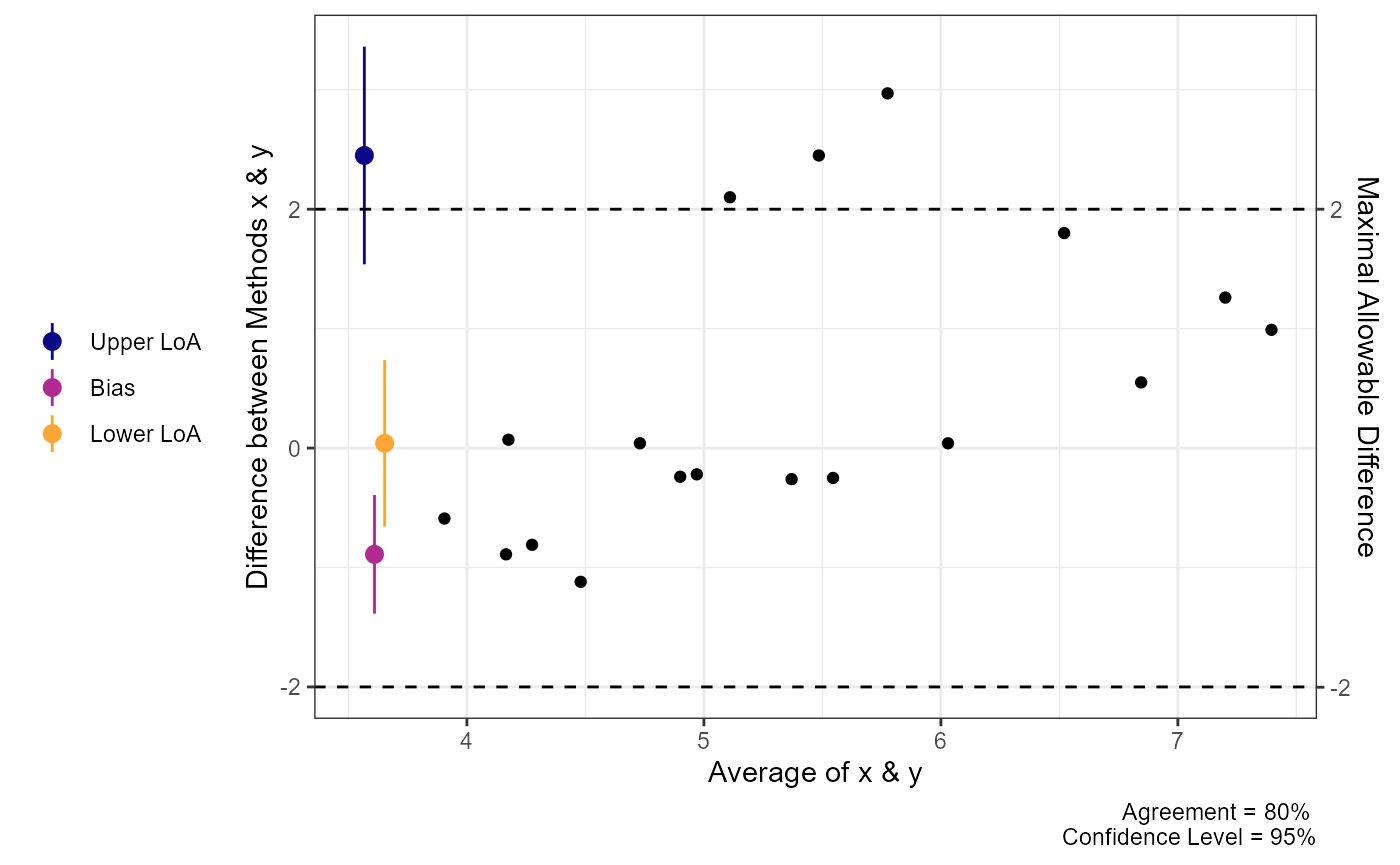
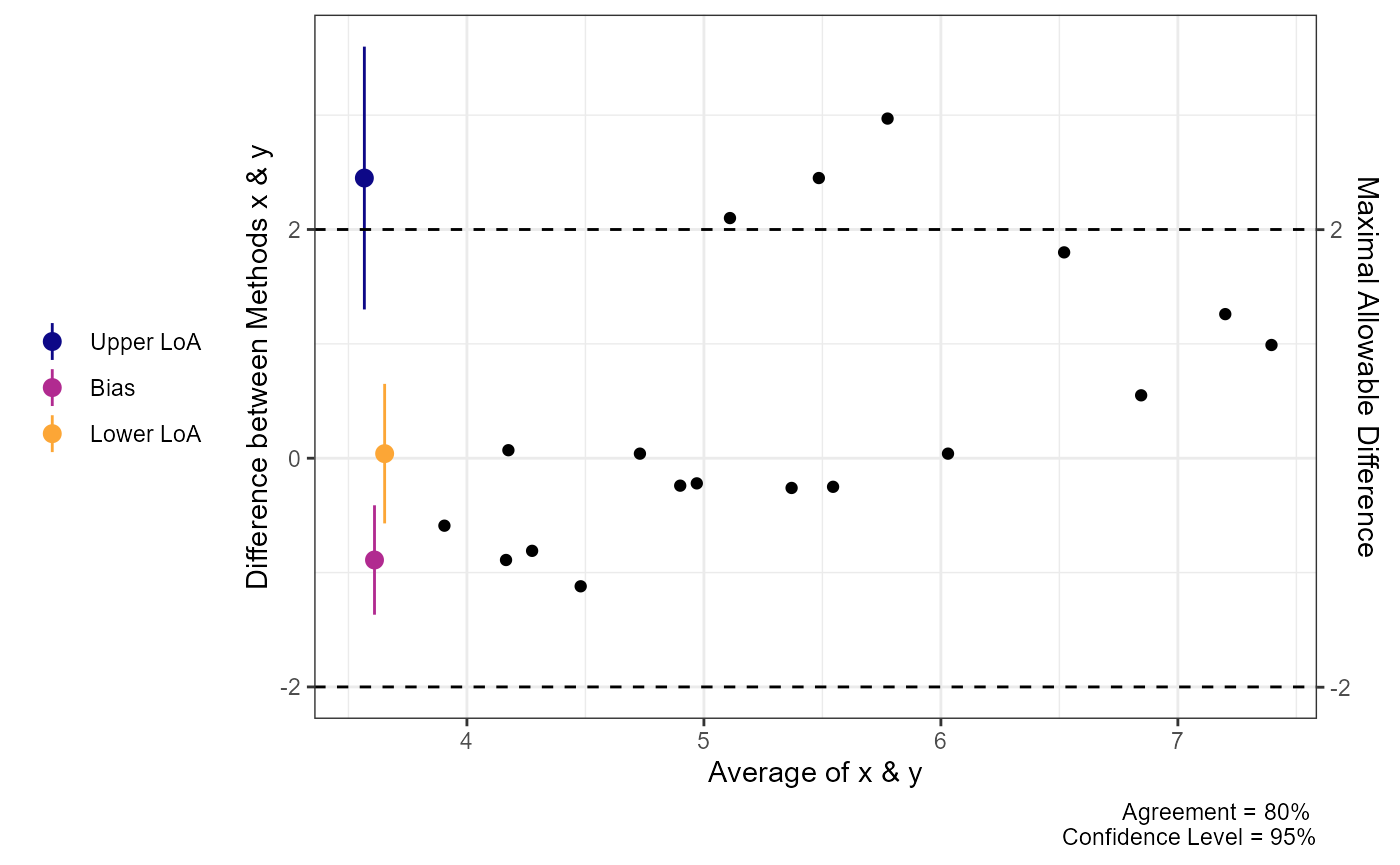
Update documentation.

diff --git a/docs/reference/dem_reg.html b/docs/reference/dem_reg.html
@@ -1,8 +1,5 @@
 <!DOCTYPE html>
-<!-- Generated by pkgdown: do not edit by hand --><html lang="en"><head><meta http-equiv="Content-Type" content="text/html; charset=UTF-8"><meta charset="utf-8"><meta http-equiv="X-UA-Compatible" content="IE=edge"><meta name="viewport" content="width=device-width, initial-scale=1.0"><title>Deming Regression
-A function for fitting a straight line to two-dimensional data (i.e., X and Y) are measured with error. — dem_reg • SimplyAgree</title><!-- jquery --><script src="https://cdnjs.cloudflare.com/ajax/libs/jquery/3.4.1/jquery.min.js" integrity="sha256-CSXorXvZcTkaix6Yvo6HppcZGetbYMGWSFlBw8HfCJo=" crossorigin="anonymous"></script><!-- Bootstrap --><link rel="stylesheet" href="https://cdnjs.cloudflare.com/ajax/libs/twitter-bootstrap/3.4.1/css/bootstrap.min.css" integrity="sha256-bZLfwXAP04zRMK2BjiO8iu9pf4FbLqX6zitd+tIvLhE=" crossorigin="anonymous"><script src="https://cdnjs.cloudflare.com/ajax/libs/twitter-bootstrap/3.4.1/js/bootstrap.min.js" integrity="sha256-nuL8/2cJ5NDSSwnKD8VqreErSWHtnEP9E7AySL+1ev4=" crossorigin="anonymous"></script><!-- bootstrap-toc --><link rel="stylesheet" href="../bootstrap-toc.css"><script src="../bootstrap-toc.js"></script><!-- Font Awesome icons --><link rel="stylesheet" href="https://cdnjs.cloudflare.com/ajax/libs/font-awesome/5.12.1/css/all.min.css" integrity="sha256-mmgLkCYLUQbXn0B1SRqzHar6dCnv9oZFPEC1g1cwlkk=" crossorigin="anonymous"><link rel="stylesheet" href="https://cdnjs.cloudflare.com/ajax/libs/font-awesome/5.12.1/css/v4-shims.min.css" integrity="sha256-wZjR52fzng1pJHwx4aV2AO3yyTOXrcDW7jBpJtTwVxw=" crossorigin="anonymous"><!-- clipboard.js --><script src="https://cdnjs.cloudflare.com/ajax/libs/clipboard.js/2.0.6/clipboard.min.js" integrity="sha256-inc5kl9MA1hkeYUt+EC3BhlIgyp/2jDIyBLS6k3UxPI=" crossorigin="anonymous"></script><!-- headroom.js --><script src="https://cdnjs.cloudflare.com/ajax/libs/headroom/0.11.0/headroom.min.js" integrity="sha256-AsUX4SJE1+yuDu5+mAVzJbuYNPHj/WroHuZ8Ir/CkE0=" crossorigin="anonymous"></script><script src="https://cdnjs.cloudflare.com/ajax/libs/headroom/0.11.0/jQuery.headroom.min.js" integrity="sha256-ZX/yNShbjqsohH1k95liqY9Gd8uOiE1S4vZc+9KQ1K4=" crossorigin="anonymous"></script><!-- pkgdown --><link href="../pkgdown.css" rel="stylesheet"><script src="../pkgdown.js"></script><meta property="og:title" content="Deming Regression
-A function for fitting a straight line to two-dimensional data (i.e., X and Y) are measured with error. — dem_reg"><meta property="og:description" content="Deming Regression
-A function for fitting a straight line to two-dimensional data (i.e., X and Y) are measured with error."><!-- mathjax --><script src="https://cdnjs.cloudflare.com/ajax/libs/mathjax/2.7.5/MathJax.js" integrity="sha256-nvJJv9wWKEm88qvoQl9ekL2J+k/RWIsaSScxxlsrv8k=" crossorigin="anonymous"></script><script src="https://cdnjs.cloudflare.com/ajax/libs/mathjax/2.7.5/config/TeX-AMS-MML_HTMLorMML.js" integrity="sha256-84DKXVJXs0/F8OTMzX4UR909+jtl4G7SPypPavF+GfA=" crossorigin="anonymous"></script><!--[if lt IE 9]>
+<!-- Generated by pkgdown: do not edit by hand --><html lang="en"><head><meta http-equiv="Content-Type" content="text/html; charset=UTF-8"><meta charset="utf-8"><meta http-equiv="X-UA-Compatible" content="IE=edge"><meta name="viewport" content="width=device-width, initial-scale=1.0"><title>Deming Regression — dem_reg • SimplyAgree</title><!-- jquery --><script src="https://cdnjs.cloudflare.com/ajax/libs/jquery/3.4.1/jquery.min.js" integrity="sha256-CSXorXvZcTkaix6Yvo6HppcZGetbYMGWSFlBw8HfCJo=" crossorigin="anonymous"></script><!-- Bootstrap --><link rel="stylesheet" href="https://cdnjs.cloudflare.com/ajax/libs/twitter-bootstrap/3.4.1/css/bootstrap.min.css" integrity="sha256-bZLfwXAP04zRMK2BjiO8iu9pf4FbLqX6zitd+tIvLhE=" crossorigin="anonymous"><script src="https://cdnjs.cloudflare.com/ajax/libs/twitter-bootstrap/3.4.1/js/bootstrap.min.js" integrity="sha256-nuL8/2cJ5NDSSwnKD8VqreErSWHtnEP9E7AySL+1ev4=" crossorigin="anonymous"></script><!-- bootstrap-toc --><link rel="stylesheet" href="../bootstrap-toc.css"><script src="../bootstrap-toc.js"></script><!-- Font Awesome icons --><link rel="stylesheet" href="https://cdnjs.cloudflare.com/ajax/libs/font-awesome/5.12.1/css/all.min.css" integrity="sha256-mmgLkCYLUQbXn0B1SRqzHar6dCnv9oZFPEC1g1cwlkk=" crossorigin="anonymous"><link rel="stylesheet" href="https://cdnjs.cloudflare.com/ajax/libs/font-awesome/5.12.1/css/v4-shims.min.css" integrity="sha256-wZjR52fzng1pJHwx4aV2AO3yyTOXrcDW7jBpJtTwVxw=" crossorigin="anonymous"><!-- clipboard.js --><script src="https://cdnjs.cloudflare.com/ajax/libs/clipboard.js/2.0.6/clipboard.min.js" integrity="sha256-inc5kl9MA1hkeYUt+EC3BhlIgyp/2jDIyBLS6k3UxPI=" crossorigin="anonymous"></script><!-- headroom.js --><script src="https://cdnjs.cloudflare.com/ajax/libs/headroom/0.11.0/headroom.min.js" integrity="sha256-AsUX4SJE1+yuDu5+mAVzJbuYNPHj/WroHuZ8Ir/CkE0=" crossorigin="anonymous"></script><script src="https://cdnjs.cloudflare.com/ajax/libs/headroom/0.11.0/jQuery.headroom.min.js" integrity="sha256-ZX/yNShbjqsohH1k95liqY9Gd8uOiE1S4vZc+9KQ1K4=" crossorigin="anonymous"></script><!-- pkgdown --><link href="../pkgdown.css" rel="stylesheet"><script src="../pkgdown.js"></script><meta property="og:title" content="Deming Regression — dem_reg"><meta property="og:description" content="A function for fitting a straight line to two-dimensional data (i.e., X and Y) are measured with error."><!-- mathjax --><script src="https://cdnjs.cloudflare.com/ajax/libs/mathjax/2.7.5/MathJax.js" integrity="sha256-nvJJv9wWKEm88qvoQl9ekL2J+k/RWIsaSScxxlsrv8k=" crossorigin="anonymous"></script><script src="https://cdnjs.cloudflare.com/ajax/libs/mathjax/2.7.5/config/TeX-AMS-MML_HTMLorMML.js" integrity="sha256-84DKXVJXs0/F8OTMzX4UR909+jtl4G7SPypPavF+GfA=" crossorigin="anonymous"></script><!--[if lt IE 9]>
 <script src="https://oss.maxcdn.com/html5shiv/3.7.3/html5shiv.min.js"></script>
 <script src="https://oss.maxcdn.com/respond/1.4.2/respond.min.js"></script>
 <![endif]--></head><body data-spy="scroll" data-target="#toc">
@@ -59,15 +56,13 @@ A function for fitting a straight line to two-dimensional data (i.e., X and Y) a
       </header><div class="row">
   <div class="col-md-9 contents">
     <div class="page-header">
-    <h1>Deming Regression
-A function for fitting a straight line to two-dimensional data (i.e., X and Y) are measured with error.</h1>
+    <h1>Deming Regression</h1>
     
     <div class="hidden name"><code>dem_reg.Rd</code></div>
     </div>
 
     <div class="ref-description">
-    <p>Deming Regression
-A function for fitting a straight line to two-dimensional data (i.e., X and Y) are measured with error.</p>
+    <p>A function for fitting a straight line to two-dimensional data (i.e., X and Y) are measured with error.</p>
     </div>
 
     <div id="ref-usage">

diff --git a/docs/articles/agreement_analysis.html b/docs/articles/agreement_analysis.html
@@ -652,9 +652,9 @@ are no longer symmetric around the bias estimate.</p>
 <span class="co">#&gt; </span>
 <span class="co">#&gt; ###- Quantile Limits of Agreement (LoA) -###</span>
 <span class="co">#&gt;           Estimate Lower CI Upper CI CI Level</span>
-<span class="co">#&gt; Lower LoA    -0.89  -1.3867  -0.3933     0.90</span>
-<span class="co">#&gt; Bias          0.04  -0.6579   0.7379     0.95</span>
-<span class="co">#&gt; Upper LoA     2.45   1.5387   3.3613     0.90</span>
+<span class="co">#&gt; Lower LoA    -0.89  -1.3684  -0.4116     0.90</span>
+<span class="co">#&gt; Bias          0.04  -0.5701   0.6501     0.95</span>
+<span class="co">#&gt; Upper LoA     2.45   1.3009   3.5991     0.90</span>
 
 <span class="fu"><a href="https://rdrr.io/r/graphics/plot.default.html" class="external-link">plot</a></span><span class="op">(</span><span class="va">a1</span><span class="op">)</span></code></pre></div>
 <p><img src="agreement_analysis_files/figure-html/unnamed-chunk-13-1.png" width="700"></p>
@@ -678,15 +678,15 @@ agreement does not.</p>
 <span class="co">#&gt; </span>
 <span class="co">#&gt; ###- Quantile Limits of Agreement (LoA) -###</span>
 <span class="co">#&gt;                  Estimate Lower CI Upper CI CI Level</span>
-<span class="co">#&gt; Lower LoA @ 3.9  -1.28975  -1.7131 -0.86642     0.90</span>
-<span class="co">#&gt; Lower LoA @ 5.24 -0.45436  -0.6402 -0.26851     0.90</span>
-<span class="co">#&gt; Lower LoA @ 7.4   0.89417   0.5861  1.20225     0.90</span>
-<span class="co">#&gt; Bias @ 3.9       -0.73052  -1.3714 -0.08964     0.95</span>
-<span class="co">#&gt; Bias @ 5.24      -0.07238  -0.7248  0.57999     0.95</span>
-<span class="co">#&gt; Bias @ 7.4        0.99000  -0.5409  2.52089     0.95</span>
-<span class="co">#&gt; Upper LoA @ 3.9  -0.38310  -2.5678  1.80155     0.90</span>
-<span class="co">#&gt; Upper LoA @ 5.24  2.01069   0.8737  3.14771     0.90</span>
-<span class="co">#&gt; Upper LoA @ 7.4   5.87483   2.5289  9.22076     0.90</span>
+<span class="co">#&gt; Lower LoA @ 3.9  -1.28975  -1.7035  -0.8760     0.90</span>
+<span class="co">#&gt; Lower LoA @ 5.24 -0.45436  -0.6364  -0.2723     0.90</span>
+<span class="co">#&gt; Lower LoA @ 7.4   0.89417   0.6299   1.1584     0.90</span>
+<span class="co">#&gt; Bias @ 3.9       -0.73052  -1.3154  -0.1456     0.95</span>
+<span class="co">#&gt; Bias @ 5.24      -0.07238  -0.5838   0.4390     0.95</span>
+<span class="co">#&gt; Bias @ 7.4        0.99000  -0.3643   2.3443     0.95</span>
+<span class="co">#&gt; Upper LoA @ 3.9  -0.38310  -2.6884   1.9222     0.90</span>
+<span class="co">#&gt; Upper LoA @ 5.24  2.01069   1.1105   2.9108     0.90</span>
+<span class="co">#&gt; Upper LoA @ 7.4   5.87483   2.3983   9.3514     0.90</span>
 
 <span class="fu"><a href="https://rdrr.io/r/graphics/plot.default.html" class="external-link">plot</a></span><span class="op">(</span><span class="va">a1</span><span class="op">)</span></code></pre></div>
 <p><img src="agreement_analysis_files/figure-html/unnamed-chunk-14-1.png" width="700"></p>

diff --git a/docs/index.html b/docs/index.html
@@ -175,7 +175,8 @@
 <div class="dev-status">
 <h2 data-toc-skip>Dev status</h2>
 <ul class="list-unstyled">
-<li><a href="https://codecov.io/gh/arcaldwell49/SimplyAgree?branch=master" class="external-link"><img src="https://codecov.io/gh/arcaldwell49/SimplyAgree/branch/master/graph/badge.svg" alt="Codecov test coverage"></a></li>
+<li><a href="https://doi.org/10.21105/joss.04148" class="external-link"><img src="https://joss.theoj.org/papers/10.21105/joss.04148/status.svg" alt="DOI"></a></li>
+<li><a href="https://app.codecov.io/gh/arcaldwell49/SimplyAgree?branch=master" class="external-link"><img src="https://codecov.io/gh/arcaldwell49/SimplyAgree/branch/master/graph/badge.svg" alt="Codecov test coverage"></a></li>
 <li><a href="https://github.com/arcaldwell49/SimplyAgree/actions" class="external-link"><img src="https://github.com/arcaldwell49/SimplyAgree/workflows/R-CMD-check/badge.svg" alt="R-CMD-check"></a></li>
 <li><a href="https://aaroncaldwell.us/SimplyAgree/" class="external-link"><img src="https://img.shields.io/badge/website-active-blue" alt="documentation"></a></li>
 </ul>

diff --git a/docs/reference/agree_np.html b/docs/reference/agree_np.html
@@ -141,9 +141,9 @@
 <span class="r-out co"><span class="r-pr">#&gt;</span> </span>
 <span class="r-out co"><span class="r-pr">#&gt;</span> ###- Quantile Limits of Agreement (LoA) -###</span>
 <span class="r-out co"><span class="r-pr">#&gt;</span>           Estimate Lower CI Upper CI CI Level</span>
-<span class="r-out co"><span class="r-pr">#&gt;</span> Lower LoA    -1.12   -1.426  -0.8143     0.90</span>
-<span class="r-out co"><span class="r-pr">#&gt;</span> Bias          0.04   -0.582   0.6620     0.95</span>
-<span class="r-out co"><span class="r-pr">#&gt;</span> Upper LoA     2.97    2.228   3.7123     0.90</span>
+<span class="r-out co"><span class="r-pr">#&gt;</span> Lower LoA    -1.12  -1.4412  -0.7988     0.90</span>
+<span class="r-out co"><span class="r-pr">#&gt;</span> Bias          0.04  -0.6435   0.7235     0.95</span>
+<span class="r-out co"><span class="r-pr">#&gt;</span> Upper LoA     2.97   2.2216   3.7184     0.90</span>
 <span class="r-out co"><span class="r-pr">#&gt;</span> </span>
 </code></pre></div>
     </div>

diff --git a/docs/reference/index.html b/docs/reference/index.html
@@ -94,8 +94,7 @@
       </tr><tr><td>
           <p><code><a href="dem_reg.html">dem_reg()</a></code> </p>
         </td>
-        <td><p>Deming Regression
-A function for fitting a straight line to two-dimensional data (i.e., X and Y) are measured with error.</p></td>
+        <td><p>Deming Regression</p></td>
       </tr><tr><td>
           <p><code><a href="jmvagree.html">jmvagree()</a></code> </p>
         </td>
